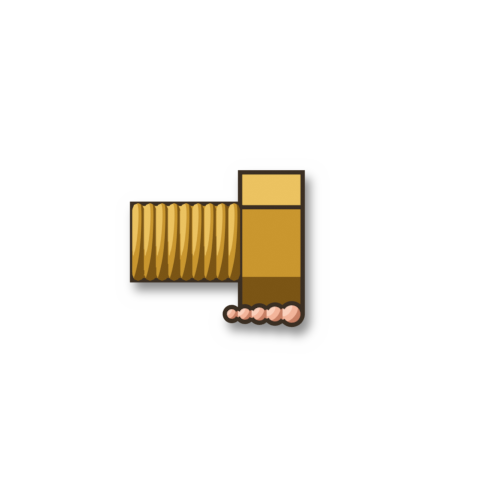
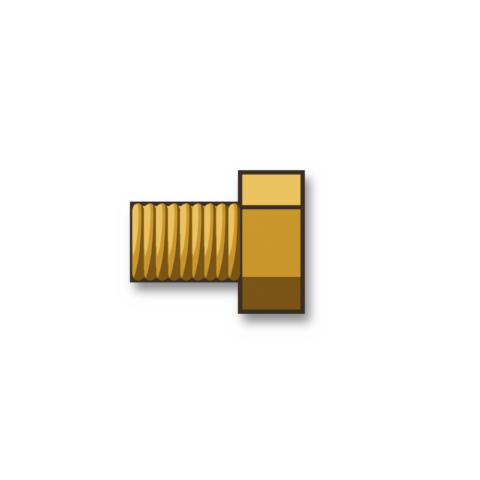
Ноги Лапидуса без пальцев: только шестигранник и резьба
Активный конец по-прежнему показывает кольцо движка.

Claude-Session: https://claude.ai/code/session_01KTF9zcDbthXae1taWntBSd

Changed region(s): [[0.4688, 0.625, 0.6562, 0.7188]]

diff --git a/art/blender/fittings.py b/art/blender/fittings.py
@@ -99,8 +99,6 @@ def mats(steel=False):
     BRASS = toon('brass', lin('#7A5414'), lin('#C9962E'), lin('#EBC260'), lin('#FFF3C2'))
     DARKM = toon('bore', lin('#1E150B'), lin('#2E2112'), lin('#3B2B17'), lin('#4A3720'))
     STEEL = toon('steel', lin('#3E454C'), lin('#7C868F'), lin('#B3BCC5'), lin('#EEF2F6'))
-    global SKIN
-    SKIN = toon('skin', lin('#C77F64'), lin('#F2B49A'), lin('#FAD0BC'), lin('#FFE9DE'))
     if steel:                      # сталь сети: тот же рендер, другой материал
         BRASS = STEEL
 
@@ -233,21 +231,12 @@ def build(ports):
 
 
 def heel(dr, active):
-    """Ноги Лапидуса: латунный шестигранник и наружная резьба стандарта стыка (как у фитингов), под гайкой — пальцы ног.
-    Строится для выхода вправо, затем поворачивается (вверх/вниз) или отражается (влево), чтобы пальцы оставались снизу."""
+    """Ноги Лапидуса: латунный шестигранник и наружная резьба стандарта стыка (как у фитингов). Пальцев нет (03.10, Lao:
+    «creepy»); активный конец показывает кольцо в игре, поэтому on и off одинаковы.
+    Строится для выхода вправо, затем поворачивается (вверх/вниз) или отражается (влево)."""
     before = set(bpy.context.scene.objects)
     o = hexp(.29, -.24, .02)
     port((1, 0), 'N', .02)
-    toes = ((-.205, .050), (-.135, .044), (-.070, .040), (-.010, .036), (.045, .032))
-    for i, (tx, r) in enumerate(toes):
-        if active:   # растопырены: вытянутые, чуть веером
-            bpy.ops.mesh.primitive_uv_sphere_add(radius=r, location=(tx, -.10, -.335 - r * .4))
-            t = bpy.context.object; t.scale = (1, 1, 1.45); t.rotation_euler = (0, math.radians((i - 2) * 9), 0)
-        else:        # поджаты: круглые
-            bpy.ops.mesh.primitive_uv_sphere_add(radius=r * .9, location=(tx + .01, -.10, -.30))
-            t = bpy.context.object
-        bpy.ops.object.transform_apply(scale=True, rotation=True)
-        bpy.ops.object.shade_smooth(); t.data.materials.append(SKIN)
     new = [o for o in bpy.context.scene.objects if o not in before and o.type == 'MESH']
     if dr == 'left':
         M_ = Matrix.Scale(-1, 4, (1, 0, 0))
